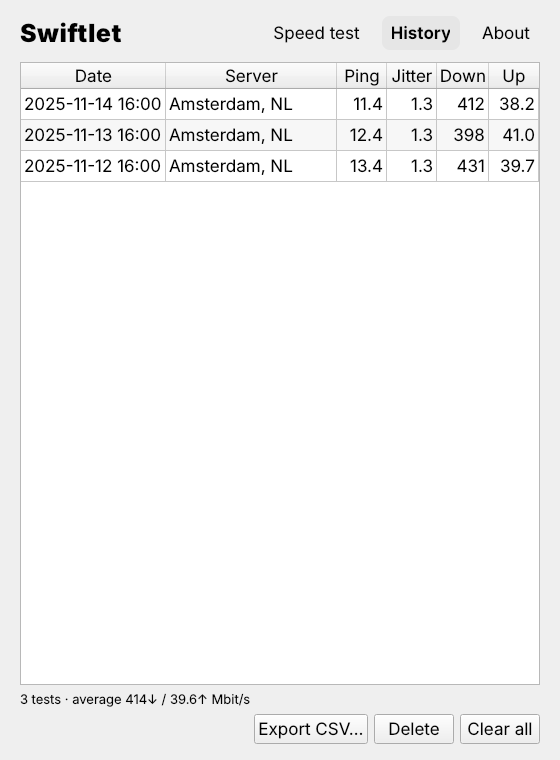
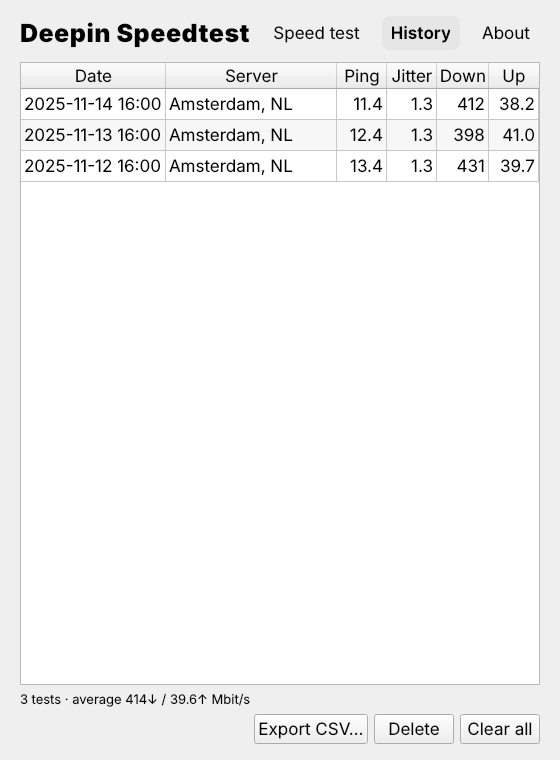
Rename Swiftlet to Deepin Speedtest everywhere; version 1.0.1
- Package, command and files: deepin-speedtest (deepin-speedtest_1.0.1_all.deb,
  /usr/bin/deepin-speedtest, /usr/share/deepin-speedtest), Python package
  deepin_speedtest, app id io.github.realact.DeepinSpeedtest, display name
  "Deepin Speedtest". The package Conflicts/Replaces/Provides swiftlet so
  installing it removes the old one.
- Settings and history move to ~/.config/deepin-speedtest and
  ~/.local/share/deepin-speedtest.
- Say in the app, README and package description that this is a community
  project not affiliated with Deepin Technology.
- Release workflow can now also create a new release when run by hand.
- Refresh screenshots.

Claude-Session: https://claude.ai/code/session_0112knTmaiVqQUVEAW3apEZG

Changed region(s): [[0.0304, 0.0303, 0.4554, 0.0605]]

diff --git a/deepin_speedtest/app.py b/deepin_speedtest/app.py
@@ -1,8 +1,8 @@
-"""Swiftlet desktop UI (PyQt5).
+"""Deepin Speedtest desktop UI (PyQt5).
 
 The UI process never opens network connections. All measurements run in
-the sandboxed engine process (``swiftlet.engine``), and every message it
-sends back is validated by ``swiftlet.protocol.validate_event``.
+the sandboxed engine process (``deepin_speedtest.engine``), and every message it
+sends back is validated by ``deepin_speedtest.protocol.validate_event``.
 """
 
 from __future__ import annotations
@@ -32,13 +32,13 @@ AUTO = "auto"
 
 MLAB_NOTICE = (
     "<p><b>About the public M-Lab servers</b></p>"
-    "<p>By default Swiftlet measures against servers run by "
+    "<p>By default Deepin Speedtest measures against servers run by "
     "<a href='https://www.measurementlab.net/'>Measurement Lab (M-Lab)</a>, an open, "
     "non-profit research platform. Using them is free and needs no account.</p>"
     "<p><b>Privacy:</b> M-Lab publishes every test as open data for research, "
     "<b>including your public IP address</b>. See M-Lab's "
     "<a href='https://www.measurementlab.net/privacy/'>privacy policy</a>.</p>"
-    "<p>Swiftlet itself collects nothing: no telemetry, no accounts, no ads. "
+    "<p>Deepin Speedtest itself collects nothing: no telemetry, no accounts, no ads. "
     "If you prefer, choose <i>Cancel</i> and add your own self-hosted ndt7 or "
     "LibreSpeed server instead.</p>"
 )
@@ -631,7 +631,7 @@ class MainWindow(QMainWindow):
             self.history_summary.setText("No tests yet. Results are stored only on this computer.")
 
     def export_history(self) -> None:
-        default = os.path.join(os.path.expanduser("~"), "swiftlet-history.csv")
+        default = os.path.join(os.path.expanduser("~"), "deepin-speedtest-history.csv")
         path, _ = QFileDialog.getSaveFileName(self, "Export history", default, "CSV files (*.csv)")
         if not path:
             return
@@ -669,7 +669,7 @@ class MainWindow(QMainWindow):
             "protocol (M-Lab or self-hosted) or a self-hosted LibreSpeed server.</p>"
             "<p><b>Privacy:</b> no telemetry, no accounts. History is stored only on this computer.</p>"
             "<p><b>Engine sandbox:</b> %s</p>"
-            "<p>Not affiliated with Ookla® or Speedtest®.</p>") % (APP_NAME, __version__, sandbox))
+            "<p>A community project. Not affiliated with Deepin Technology, Ookla® or Speedtest®.</p>") % (APP_NAME, __version__, sandbox))
 
     def closeEvent(self, event) -> None:  # noqa: N802 - Qt API
         if self.run is not None:

diff --git a/deepin_speedtest/cli.py b/deepin_speedtest/cli.py
@@ -1,4 +1,4 @@
-"""Command-line interface: ``swiftlet --cli``.
+"""Command-line interface: ``deepin-speedtest --cli``.
 
 Uses exactly the same sandboxed engine and validation as the desktop UI.
 """
@@ -17,9 +17,9 @@ from .storage import History, Settings
 from .validate import ValidationError, parse_server_address, validate_https_base
 
 NOTICE = """\
-Swiftlet uses the public servers of Measurement Lab (M-Lab) by default.
+Deepin Speedtest uses the public servers of Measurement Lab (M-Lab) by default.
 M-Lab publishes every test as open research data, INCLUDING YOUR PUBLIC IP
-ADDRESS (https://www.measurementlab.net/privacy/). Swiftlet itself collects
+ADDRESS (https://www.measurementlab.net/privacy/). Deepin Speedtest itself collects
 nothing. Use --ndt7-server or --librespeed to test against your own server.
 """
 
@@ -78,7 +78,7 @@ def _collect(op: str, server: Optional[Dict[str, Any]], quiet: bool) -> List[Dic
 def main(argv: Optional[List[str]] = None) -> int:
     hardening.refuse_root()
     hardening.harden_process()
-    p = argparse.ArgumentParser(prog="swiftlet --cli", description="%s %s command-line speed test" % (
+    p = argparse.ArgumentParser(prog="deepin-speedtest --cli", description="%s %s command-line speed test" % (
         APP_NAME, __version__))
     p.add_argument("--list-servers", action="store_true", help="list nearby M-Lab servers")
     p.add_argument("--ndt7-server", metavar="HOST[:PORT]", help="use a self-hosted ndt7 server")

diff --git a/tests/test_sandbox.py b/tests/test_sandbox.py
@@ -10,13 +10,13 @@ import pytest
 ROOT = os.path.dirname(os.path.dirname(os.path.abspath(__file__)))
 sys.path.insert(0, ROOT)
 
-from swiftlet import hardening  # noqa: E402
-from swiftlet.protocol import engine_command, engine_environment, request_line, validate_event  # noqa: E402
+from deepin_speedtest import hardening  # noqa: E402
+from deepin_speedtest.protocol import engine_command, engine_environment, request_line, validate_event  # noqa: E402
 
 PROBE = textwrap.dedent("""
     import json, os, socket, sys
     sys.path.insert(0, sys.argv[1])
-    from swiftlet import hardening
+    from deepin_speedtest import hardening
     secret, allowed, blocked = sys.argv[2], int(sys.argv[3]), int(sys.argv[4])
     report = hardening.sandbox_engine([allowed])
     out = {"abi": report["landlock_abi"]}
@@ -26,7 +26,7 @@ PROBE = textwrap.dedent("""
         except OSError as e:
             return e.__class__.__name__
     out["read_secret"] = attempt(lambda: open(secret).read())
-    out["write_tmp"] = attempt(lambda: open("/tmp/swiftlet-probe-%d" % os.getpid(), "w").write("x"))
+    out["write_tmp"] = attempt(lambda: open("/tmp/deepin-speedtest-probe-%d" % os.getpid(), "w").write("x"))
     out["read_usr"] = attempt(lambda: os.listdir("/usr"))
     out["exec"] = attempt(lambda: os.execv("/bin/true", ["true"]))
     def conn(p):

diff --git a/tools/set_version.py b/tools/set_version.py
@@ -25,8 +25,8 @@ def sub(rel, pattern, repl, count=1):
     path.write_text(new, encoding="utf-8")
 
 
-sub("swiftlet/__init__.py", r'^__version__ = "[^"]*"', '__version__ = "%s"' % version)
-sub("debian/changelog", r"^swiftlet \([^)]*\)", "swiftlet (%s)" % version)
-sub("man/swiftlet.1", r'"swiftlet [0-9.]+"', '"swiftlet %s"' % version)
-sub("data/io.github.realact.Swiftlet.metainfo.xml", r'<release version="[^"]*"', '<release version="%s"' % version)
+sub("deepin_speedtest/__init__.py", r'^__version__ = "[^"]*"', '__version__ = "%s"' % version)
+sub("debian/changelog", r"^deepin-speedtest \([^)]*\)", "deepin-speedtest (%s)" % version)
+sub("man/deepin-speedtest.1", r'"deepin-speedtest [0-9.]+"', '"deepin-speedtest %s"' % version)
+sub("data/io.github.realact.DeepinSpeedtest.metainfo.xml", r'<release version="[^"]*"', '<release version="%s"' % version)
 print("version set to", version)

diff --git a/deepin_speedtest/hardening.py b/deepin_speedtest/hardening.py
@@ -2,7 +2,7 @@
 
 Two layers are used:
 
-* ``harden_process()`` runs in every Swiftlet process: restrictive umask,
+* ``harden_process()`` runs in every Deepin Speedtest process: restrictive umask,
   no core dumps, not ptrace-able by other processes of the same user, and
   ``no_new_privs`` so nothing we start can ever gain privileges (setuid,
   file capabilities).
@@ -88,9 +88,9 @@ def _libc() -> Optional[ctypes.CDLL]:
 
 
 def refuse_root() -> None:
-    """Exit if started as root: Swiftlet never needs privileges."""
+    """Exit if started as root: Deepin Speedtest never needs privileges."""
     if os.geteuid() == 0 or os.getegid() == 0:
-        sys.stderr.write("swiftlet: refusing to run as root; start it as a normal user.\n")
+        sys.stderr.write("deepin-speedtest: refusing to run as root; start it as a normal user.\n")
         raise SystemExit(2)
 
 

diff --git a/tests/test_gui_smoke.py b/tests/test_gui_smoke.py
@@ -11,7 +11,7 @@ def window(tmp_path, monkeypatch):
     monkeypatch.setenv("XDG_DATA_HOME", str(tmp_path / "data"))
     monkeypatch.setenv("XDG_CONFIG_HOME", str(tmp_path / "config"))
     from PyQt5.QtWidgets import QApplication
-    from swiftlet.app import MainWindow
+    from deepin_speedtest.app import MainWindow
     app = QApplication.instance() or QApplication([])
     win = MainWindow()
     yield win
@@ -33,7 +33,7 @@ def test_window_builds_and_handles_events(window):
 
 
 def test_gauge_scale():
-    from swiftlet.gauge import value_to_fraction
+    from deepin_speedtest.gauge import value_to_fraction
     assert value_to_fraction(0) == 0
     assert value_to_fraction(1000) == 1
     assert 0 < value_to_fraction(5) < value_to_fraction(100) < value_to_fraction(999) < 1

diff --git a/tests/test_storage.py b/tests/test_storage.py
@@ -5,7 +5,7 @@ import stat
 
 import pytest
 
-from swiftlet import storage
+from deepin_speedtest import storage
 
 RESULT = {"timestamp": 1763136000, "host": "ndt.example.org", "ping_ms": 10.5, "jitter_ms": 1.2,
           "download_mbps": 300.0, "upload_mbps": 40.0, "download_latency_ms": 25.0,
@@ -84,6 +84,6 @@ def test_settings_save_is_private():
 def test_refuses_symlinked_data_dir(xdg):
     (xdg / "data").mkdir()
     (xdg / "elsewhere").mkdir()
-    (xdg / "data" / "swiftlet").symlink_to(xdg / "elsewhere")
+    (xdg / "data" / "deepin-speedtest").symlink_to(xdg / "elsewhere")
     with pytest.raises(PermissionError):
         storage.data_dir()

diff --git a/deepin_speedtest/__main__.py b/deepin_speedtest/__main__.py
@@ -11,8 +11,8 @@ def main() -> int:
         from .cli import main as cli_main
         return cli_main(args[1:])
     if args[:1] in (["-h"], ["--help"]):
-        print("usage: swiftlet [--cli [options] | --version]\n"
-              "Run without arguments for the desktop app; 'swiftlet --cli --help' for the terminal.")
+        print("usage: deepin-speedtest [--cli [options] | --version]\n"
+              "Run without arguments for the desktop app; 'deepin-speedtest --cli --help' for the terminal.")
         return 0
     from .hardening import refuse_root
     refuse_root()  # before Qt is even imported

diff --git a/tests/fakeservers.py b/tests/fakeservers.py
@@ -37,7 +37,7 @@ def server_context(crt: str, key: str) -> ssl.SSLContext:
 
 
 def client_context(crt: str) -> ssl.SSLContext:
-    from swiftlet.engine.wsclient import make_tls_context
+    from deepin_speedtest.engine.wsclient import make_tls_context
     ctx = make_tls_context()
     ctx.load_verify_locations(crt)
     return ctx
@@ -227,7 +227,7 @@ def serve(server):
 
 
 def free_tmpdir():
-    return tempfile.mkdtemp(prefix="swiftlet-test-")
+    return tempfile.mkdtemp(prefix="deepin-speedtest-test-")
 
 
 __all__ = ["make_cert", "server_context", "client_context", "Ndt7Handler", "TLSServer",

diff --git a/deepin_speedtest/protocol.py b/deepin_speedtest/protocol.py
@@ -26,7 +26,7 @@ def engine_command() -> List[str]:
     """Command line that runs the engine in isolated mode (-I: ignore PYTHON*
     environment variables, user site-packages and the current directory)."""
     pkg_parent = os.path.dirname(os.path.dirname(os.path.abspath(__file__)))
-    code = "import sys;sys.path.insert(0,sys.argv[1]);from swiftlet.engine.main import main;sys.exit(main())"
+    code = "import sys;sys.path.insert(0,sys.argv[1]);from deepin_speedtest.engine.main import main;sys.exit(main())"
     return [sys.executable, "-I", "-c", code, pkg_parent]
 
 

diff --git a/tests/test_validation.py b/tests/test_validation.py
@@ -2,9 +2,9 @@ import json
 
 import pytest
 
-from swiftlet.engine.mlab import parse_locate
-from swiftlet.protocol import validate_event
-from swiftlet.validate import (ValidationError, clean_text, parse_server_address,
+from deepin_speedtest.engine.mlab import parse_locate
+from deepin_speedtest.protocol import validate_event
+from deepin_speedtest.validate import (ValidationError, clean_text, parse_server_address,
                                validate_hostname, validate_https_base, validate_ndt7_url)
 
 TOKEN = "eyJhbGciOiJFZERTQSJ9.eyJhdWQiOlsibWxhYjEifX0.c2ln"

diff --git a/tests/test_engine.py b/tests/test_engine.py
@@ -4,8 +4,8 @@ import sys
 import pytest
 
 
-from swiftlet.engine import librespeed, ndt7  # noqa: E402
-from swiftlet.engine.wsclient import WebSocket, WebSocketError  # noqa: E402
+from deepin_speedtest.engine import librespeed, ndt7  # noqa: E402
+from deepin_speedtest.engine.wsclient import WebSocket, WebSocketError  # noqa: E402
 
 from fakeservers import (LibreSpeedServer, Ndt7Handler, TLSServer, client_context,  # noqa: E402
                          make_cert, serve, server_context)
